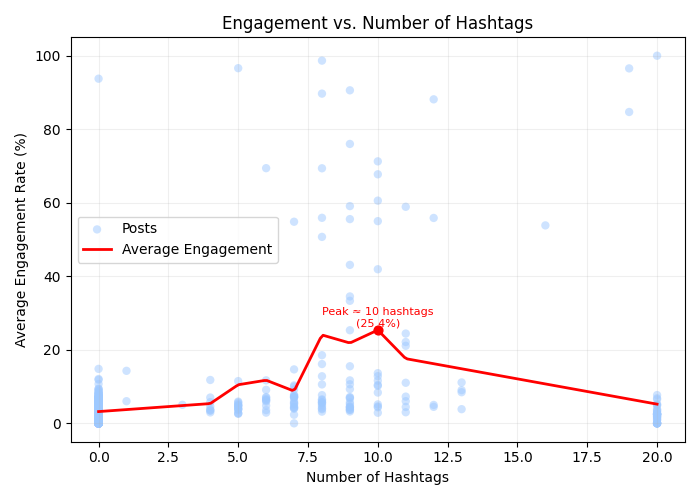
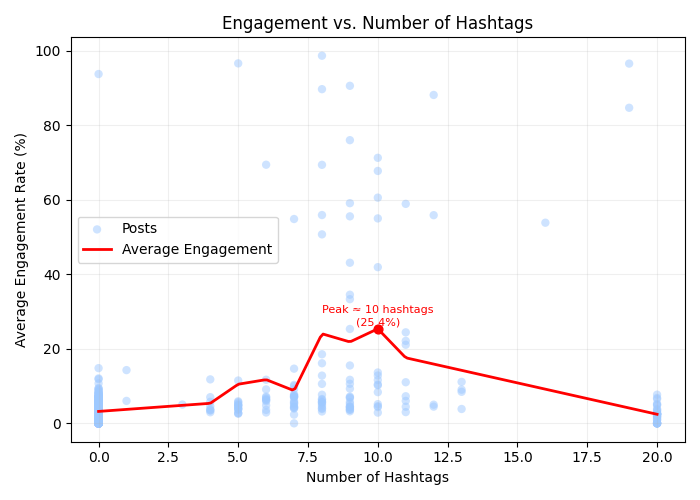
hashtag bug fix

diff --git a/analysis/hashtag_analysis.py b/analysis/hashtag_analysis.py
@@ -33,7 +33,7 @@ df["EngagementRate"] = (
 # Drop invalid or nonsensical engagement values
 df = df[df["EngagementRate"].notna()]
 df = df[df["EngagementRate"] >= 0]
-df = df[df["EngagementRate"] <= 100]
+df = df[df["EngagementRate"] <= 99.99]
 
 # ---------- Extract hashtags ----------
 def extract_hashtags(text):
